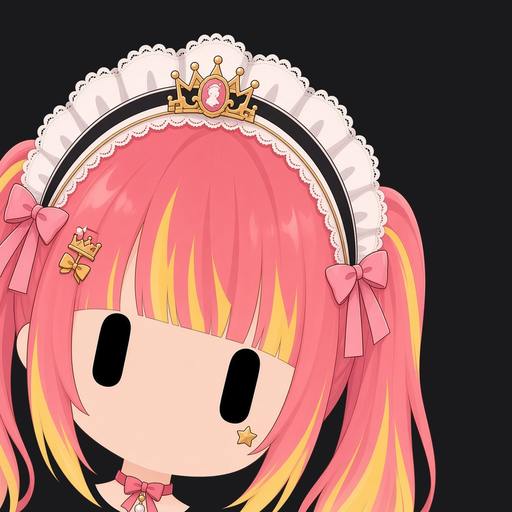
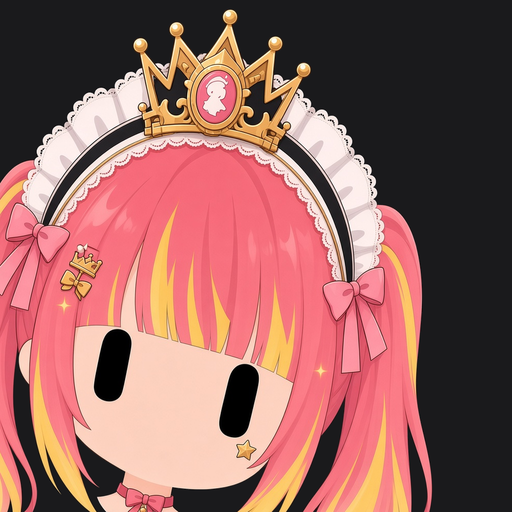
v18: big integrated head-maid crown, varied cheek stickers, direct swap after owner approval

diff --git a/README.md b/README.md
@@ -1,10 +1,10 @@
 # Grok Bot 女仆头像 · 一键提示词
 
-一套给 Grok Bot 用的女仆头像提示词：全员同一张脸、同一个构图，头发和头饰各不一样；发色亮/正常/深混着来；**深色头饰绝不糊进 `#1A1A1C`**；每个 bot **≥2 个跟职责相关的主题配饰**（发卡 + 脸颊贴纸/可爱创可贴）；主 bot 小咪 = 女仆长 + 小皇冠。把提示词整份丢给你的 Bot，它会先出总览，再问你要不要一键换上。
+一套给 Grok Bot 用的女仆头像提示词：全员同一张脸、同一个构图，头发和头饰各不一样；发色亮/正常/深混着来；**深色头饰绝不糊进 `#1A1A1C`**；每个 bot **≥2 个跟职责相关的主题配饰**（发卡 + **多样可爱脸颊贴纸**；创可贴极少，整套最多约 1～2 个）；主 bot 小咪 = 女仆长 + **醒目大金皇冠**（长在蕾丝发箍上，可很大）。把提示词整份丢给你的 Bot，它会先出总览，再问你要不要一键换上。
 
 ## 效果预览
 
-24 张同模 showcase（v17：主题配饰 ≥2 + 深色头饰对比锁；6×4）：
+24 张同模 showcase（v18：主题配饰 ≥2 + 多样脸颊贴纸 + 深色头饰对比锁；6×4）：
 
 ![6x4 showcase](samples/sheet-6x4.png)
 
@@ -26,21 +26,23 @@
 
 ## 效果约定
 
-- **同一个模子**：脸型、眼睛位置、歪头角度、裁切一致；只换头发、头饰、徽章、发卡、贴纸、choker。
+- **同一个模子**：脸型、眼睛位置、歪头角度、裁切一致；只换头发、头饰、徽章、发卡、**多样脸颊贴纸**、choker。
 - **构图**：大特写锚在左下，露一小截脖子 + choker，不露肩膀和胸口；背景 `#1A1A1C`。
 - **发色**：更大胆，约 ⅓ 深宝石发 + 亮挑染，少浅色；亮 / 正常 / 深混搭（深档用宝石底+亮挑染）；保留挑染 / 分色 / 内层染 / 发尾渐变；**不要黑发，也不要水洗浅色**。
 - **头饰**：必须是女仆蕾丝/荷叶/缎带 katyusha；**黑白为主**但剪影、材质、滚边、徽章外形要互异（禁止全员同一顶白蕾丝）。
-- **深色头饰对比锁（v17）**：黑/炭灰头饰在 `#1A1A1C` 上必须可读——亮滚边（象牙/奶油/银/金/高饱和色 ≥2px）/ 换浅主色（奶油/米/浅灰/酒红）/ 外白内黑荷叶边，三选一；禁止哑光纯黑无边。
-- **主题配饰（v17）**：出图前先读该 bot 上下文；每人至少 **发卡 + 脸颊贴纸或可爱创可贴** 两件主题相关配饰；可选颈链吊坠。贴纸/创可贴保持可爱审美，硬工作图标不直接贴脸。
-- **女仆长**：主 bot 小咪头饰更华丽并戴**小皇冠**；分身（小咪2/3/4…）不要皇冠。
+- **深色头饰对比锁（v18）**：黑/炭灰头饰在 `#1A1A1C` 上必须可读——亮滚边（象牙/奶油/银/金/高饱和色 ≥2px）/ 换浅主色（奶油/米/浅灰/酒红）/ 外白内黑荷叶边，三选一；禁止哑光纯黑无边。
+- **主题配饰（v18）**：出图前先读该 bot 上下文；每人至少 **发卡 + 脸颊贴纸** 两件主题相关配饰；可选颈链吊坠。**默认多样可爱贴纸**（星/心/月牙/闪光/小花/泪滴/迷你蝴蝶结等，全套互不雷同）；**创可贴极少**（整套最多约 1～2 个 bot），禁止人人创可贴。硬工作图标不直接贴脸。
+- **女仆长**：主 bot 小咪头饰更华丽并戴**醒目大金皇冠**（长在蕾丝荷叶发箍上，可很大很明显）；分身（小咪2/3/4…）不要皇冠。
 - **气质**：二次元 / 轻亚比 / 一点点小偶像，女仆框架不丢。
 
-## 完整提示词（v17）
+## 完整提示词（v18）
 
 <details>
-<summary>点击展开：一键提示词 v17（复制这里或 PROMPT.md）</summary>
+<summary>点击展开：一键提示词 v18（复制这里或 PROMPT.md）</summary>
 
-# Grok Bot 女仆头像 · 一键提示词（v17）
+
+
+# Grok Bot 女仆头像 · 一键提示词（v18）
 
 > **给你用的：**整份复制 → 发给你的 Grok Bot。  
 > **给 Bot 用的：**先看「做成什么样」，再严格按流程；出图时把 **§3 英文**整段交给画图模型。
@@ -55,23 +57,23 @@
 2. **发色大胆有层次** — 至少约 ⅓ 深宝石发（酒红/深青/海军蓝/梅紫/墨绿）配亮挑染；少用浅色粉彩；人人有挑染、双色或渐变；没有黑发、没有水洗浅粉。  
 3. **头饰一眼能分清** — 仍是女仆头饰，但以黑白为主，花样、材质、风格各不相同（不是复制同一顶白蕾丝）。  
 4. **深色头饰绝不糊进背景** — 黑/炭灰头饰在 `#1A1A1C` 上必须能看清轮廓（亮滚边 / 换浅主色 / 外层白荷叶边三选一）；缩略图也能看出头饰剪影。  
-5. **配饰跟职能挂钩（v17 硬规则）** — 每个 bot **至少 2 个主题配饰**（发卡 + 脸颊贴纸/创可贴 为底线；颈链吊坠可再加），必须读过该 bot 的职责/上下文后再设计；贴纸仍是可爱审美物，可含可爱创可贴/脸颊印记，但不是冷冰冰的工作图标。  
-6. **主 bot 女仆长可辨** — 主 bot「小咪」= 女仆长：头饰更华丽 + **小皇冠**；分身（小咪2/3/4…）**不要皇冠**。  
-7. **先给总览，再问要不要换** — 没问就换 = 做错了。
+5. **配饰跟职能挂钩（v18 硬规则）** — 每个 bot **至少 2 个主题配饰**（发卡 + 脸颊贴纸 为底线；颈链吊坠可再加），必须读过该 bot 的职责/上下文后再设计；脸颊以**多样可爱贴纸**为主（星/心/月牙/闪光/小花/泪滴/迷你蝴蝶结等互不雷同），**创可贴极少**（整套最多约 1～2 个 bot）；不是冷冰冰的工作图标。  
+6. **主 bot 女仆长可辨** — 主 bot「小咪」= 女仆长：头饰更华丽 + **醒目皇冠**（长在蕾丝上，可很大很明显）；分身（小咪2/3/4…）**不要皇冠**。  
+7. **先给总览，再换** — 第一次出整套先给主人看；主人说过「直接换、不用再问」后，以后出图就直接通知各 bot 换上，不再让每个 bot 单独弹确认。
 
 做不到以上任一条：重做，不要凑合交付。
 
 ---
 
-## 速记（v17 全部规则）
+## 速记（v18 全部规则）
 
 1. 出图前先读该 bot 的上下文。  
-2. 每人 ≥2 个主题配饰（发卡 + 脸颊贴纸/可爱创可贴，可加颈链吊坠）。  
+2. 每人 ≥2 个主题配饰（发卡 + 多样脸颊贴纸，可加颈链吊坠）；创可贴整套最多约 1～2 个，禁止人人创可贴。  
 3. 发色更大胆：一套里 ≥⅓ 深宝石发 + 亮挑染；少浅色。  
 4. 保留挑染 / 双色 / 渐变。  
 5. 头饰可加时尚元素，但必须一眼是女仆头饰。  
-6. v16 深色头饰对比锁照旧。  
-7. 主 bot 小咪 = 女仆长 + 小皇冠；皇冠必须**长在女仆蕾丝发箍上**（蕾丝荷叶底座 + 缎带系带 + 女仆徽章），不能是单独一顶皇冠；分身不戴皇冠。  
+6. v18 深色头饰对比锁照旧。  
+7. 主 bot 小咪 = 女仆长 + 皇冠；皇冠必须**长在女仆蕾丝发箍上**（蕾丝荷叶底座 + 缎带系带 + 女仆徽章），不能是单独一顶皇冠；皇冠可以**很大很醒目**（缩略图也能认），分身不戴皇冠。  
 8. 偶尔动漫联动彩蛋（约 1/6～1/8，不画 logo/不抄脸）。
 
 ---
@@ -102,7 +104,7 @@
 | 项 | 要求 |
 |---|---|
 | 画布 | 先画 1024×1024，交付再缩 512×512 |
-| 可变 | 头发、头饰、徽章、发卡、贴纸/创可贴、颈链、小妆点 |
+| 可变 | 头发、头饰、徽章、发卡、脸颊贴纸（创可贴极少）、颈链、小妆点 |
 | 不可变 | 脸型、脸大小、角度、眼睛位置和大小、裁切、脖子长短 |
 | 眼睛（1024 图） | 两眼中心大约 `(351, 736)`，眼高大约 `148`（约画面高度的 **14%**），误差 ±3% |
 | 头+头饰 | 约占画面高度 **45%～55%**；不许拍得更近 |
@@ -123,21 +125,21 @@ Square 1:1 avatar. Flat 2D anime chibi icon, mouthless round face, two plain sol
 
 FRAMING LOCK (match master exactly): same pose, same face size, same eye position, same camera distance. Eye height ≈14% of canvas. Head + maid headpiece ≈45–55% of canvas height — DO NOT zoom closer. Entire headpiece inside frame with ≥20px empty margin above it. Attach BOTH the master image AND one known-good sibling from this set as references. If framing drifts, regenerate; do not crop tighter.
 
-CONTEXT ACCESSORIES (v17, mandatory ≥2 themed pieces): Before drawing, the designer already read this bot's role. Include AT LEAST: (1) bangs clip shaped like [job-themed cute prop], AND (2) ONE cheek mark — either a tiny aesthetic sticker [star/heart/sparkle/flower/crescent/teardrop/tiny bow] OR a cute themed bandaid/cheek plaster in soft pastel with a tiny motif matching the job. Optional 3rd: choker charm matching the same theme. Stickers/bandaids stay cute and aesthetic — NEVER cold UI icons (no handshake, gear-only, checkmark-only, pokeball-as-job-badge on the face). Emblem on headpiece may be a stylized cute symbol of the job.
+CONTEXT ACCESSORIES (v18, mandatory ≥2 themed pieces): Before drawing, the designer already read this bot's role. Include AT LEAST: (1) bangs clip shaped like [job-themed cute prop], AND (2) ONE cheek mark — DEFAULT a tiny playful aesthetic sticker [star/heart/sparkle/flower/crescent/teardrop/tiny bow], VARIED across the set so bots do not share the same cheek mark. Cute themed bandaid/cheek plaster is RARE — at most ~1–2 bots in the whole set; NEVER give most bots bandaids. Optional 3rd: choker charm matching the same theme. Stickers stay cute and aesthetic — NEVER cold UI icons (no handshake, gear-only, checkmark-only, pokeball-as-job-badge on the face). Emblem on headpiece may be a stylized cute symbol of the job.
 
-Appearance: [concrete hairstyle + one asymmetry]. [BRIGHT or MID or DEEP — use DEEP for ≥1/3 of the set] BOLD high-contrast dopamine candy hair in 60/30/10 colors [name three colors] — rich chromatic candy, NEVER pastel/washed pink, NEVER black/charcoal base (if DEEP: dark jewel base + bright streak or tip). Dye: [chunky streak / vertical split / underdye / tip ombre / different-color twin tails]. UNIQUE maid headpiece (must still read as maid lace/ruffle/ribbon band; mostly black/white; NOT a clone of other bots; may add ONE or TWO fashion touches — ribbon tie, metallic chain trim, pearl/rhinestone accents, patent vinyl band, gingham/plaid trim, layered tulle, asymmetric bow, mini charms — but NO hats, full crowns, helmets, horns, big headphones): [silhouette], [material], [fashion touch], [main color + REQUIRED contrast treatment if dark — see HEADPIECE CONTRAST LOCK], center gold-trimmed emblem shaped like [unique cute job symbol]. Bangs clip: [job-themed cute prop]. ONE cheek mark only: [aesthetic sticker OR cute themed bandaid]. Choker: [unique, optionally with themed charm]. Soft hair sparkle. Do NOT copy any clip, sticker, or checkmark from the master.
+Appearance: [concrete hairstyle + one asymmetry]. [BRIGHT or MID or DEEP — use DEEP for ≥1/3 of the set] BOLD high-contrast dopamine candy hair in 60/30/10 colors [name three colors] — rich chromatic candy, NEVER pastel/washed pink, NEVER black/charcoal base (if DEEP: dark jewel base + bright streak or tip). Dye: [chunky streak / vertical split / underdye / tip ombre / different-color twin tails]. UNIQUE maid headpiece (must still read as maid lace/ruffle/ribbon band; mostly black/white; NOT a clone of other bots; may add ONE or TWO fashion touches — ribbon tie, metallic chain trim, pearl/rhinestone accents, patent vinyl band, gingham/plaid trim, layered tulle, asymmetric bow, mini charms — but NO hats, full crowns, helmets, horns, big headphones): [silhouette], [material], [fashion touch], [main color + REQUIRED contrast treatment if dark — see HEADPIECE CONTRAST LOCK], center gold-trimmed emblem shaped like [unique cute job symbol]. Bangs clip: [job-themed cute prop]. ONE cheek mark only: [varied playful sticker — star/heart/sparkle/flower/crescent/teardrop/mini bow; bandaid RARE, ≤1–2 bots in whole set]. Choker: [unique, optionally with themed charm]. Soft hair sparkle. Do NOT copy any clip, sticker, or checkmark from the master.
 
 HEADPIECE CONTRAST LOCK (non-negotiable on #1A1A1C): Dark / black / charcoal / near-black headpieces MUST stay readable at thumbnail size. For ANY dark headpiece pick ONE: (a) bright edge piping ≥2px visual — ivory, cream, silver, gold, or hot color along the ENTIRE outer silhouette; OR (b) swap the main body to cream / ivory / soft grey / wine with contrast lace; OR (c) white/cream outer frill wrapping a dark inner band. NEVER pure matte black lace with no rim. Far-thumbnail must show the headpiece silhouette clearly against #1A1A1C.
 
 ANIME CAMEO (optional, ~1 in 6–8 bots only): light nod to a popular anime IP via hair color scheme, one signature clip, or headpiece motif; keep the same mold, maid headpiece, mouthless capsule eyes; NO logos, NO text, NO copying the character's face.
 
-HEAD-MAID RULE: Only the main bot 小咪 may wear a delicate mini gold crown, and it must be BUILT ONTO / RISING FROM a lace-ruffle maid katyusha (lace frill base, ribbon ties, maid emblem) — never a standalone crown or tiara. Sister bots / 分身 (小咪2/3/4…) must NOT have a crown/tiara/crownette.
+HEAD-MAID RULE: Only the main bot 小咪 may wear a gold crown on the maid headpiece, and it must be BUILT ONTO / RISING FROM a lace-ruffle maid katyusha (lace frill base, ribbon ties, maid emblem) — never a standalone crown or tiara. The crown may be LARGE and DOMINANT (clearly readable at thumbnail) as long as it stays integrated on the lace katyusha with ≥20px top margin. Sister bots / 分身 (小咪2/3/4…) must NOT have a crown/tiara/crownette.
 ```
 
 **合格 Appearance 示例 A（财务 · 主题配饰 ≥2）：**
 
 ```
-Appearance: soft low side braid with blunt bangs, one longer left strand. MID dopamine candy hair 60/30/10 mint pearl / cream / soft gold — tip ombre. UNIQUE maid headpiece: rounded cream layered lace, thick lace material, ivory with thin gold piping, center gold-trimmed emblem shaped like a tiny coin pouch. Bangs clip: tiny abacus bead charm. ONE cheek mark only: cute mint bandaid with a tiny gold coin doodle. Choker: thin pearl strand with a small gold coin charm. Soft hair sparkle. Do NOT copy any clip, sticker, or checkmark from the master.
+Appearance: soft low side braid with blunt bangs, one longer left strand. MID dopamine candy hair 60/30/10 mint pearl / cream / soft gold — tip ombre. UNIQUE maid headpiece: rounded cream layered lace, thick lace material, ivory with thin gold piping, center gold-trimmed emblem shaped like a tiny coin pouch. Bangs clip: tiny abacus bead charm. ONE cheek mark only: tiny gold coin-heart sticker. Choker: thin pearl strand with a small gold coin charm. Soft hair sparkle. Do NOT copy any clip, sticker, or checkmark from the master.
 ```
 
 **合格 Appearance 示例 B（深色头饰 · 游戏开发 · 主题配饰 ≥2）：**
@@ -149,12 +151,12 @@ Appearance: messy short bob with soft bangs, one longer right strand. DEEP dopam
 **合格 Appearance 示例 C（主 bot 小咪 · 女仆长 + 小皇冠）：**
 
 ```
-Appearance: soft bob with blunt bangs and tiny cat-ear tufts, one longer left strand. BRIGHT dopamine candy hair 60/30/10 bubblegum hot pink / lemon gold / soft coral — chunky lemon underdye. UNIQUE HEAD-MAID maid headpiece: wide multi-layered Victorian lace with gold-trim ribbon bows, ivory outer frills wrapping rose-pink inner band PLUS thin gold piping ≥2px, with a delicate small mini gold crown (3 tiny arches) sitting on the lace — senior look, NOT a clone of ordinary maids. Center gold-trimmed emblem shaped like a cat-paw with tiny crown. Bangs clip: tiny gold crown charm. ONE cheek mark only: tiny gold star. Choker: double pearl strand with hanging gold crown charm. Soft hair sparkle. Do NOT copy checkmark/ballot from master.
+Appearance: soft bob with blunt bangs and tiny cat-ear tufts, one longer left strand. BRIGHT dopamine candy hair 60/30/10 bubblegum hot pink / lemon gold / soft coral — chunky lemon underdye. UNIQUE HEAD-MAID maid headpiece: wide multi-layered Victorian lace with gold-trim ribbon bows, ivory outer frills wrapping rose-pink inner band PLUS thin gold piping ≥2px, with a LARGE dominant ornate gold crown (multi-point, clearly readable at thumbnail, several times larger than a tiny mini-crown) sitting on / rising from the lace — senior look, NOT a clone of ordinary maids; still integrated, never standalone. Center gold-trimmed emblem shaped like a cat-paw with tiny crown. Bangs clip: tiny gold crown charm. ONE cheek mark only: tiny gold star. Choker: double pearl strand with hanging gold crown charm. Soft hair sparkle. Do NOT copy checkmark/ballot from master.
 ```
 
 ---
 
-## 4. 发色：更大胆、更多深色（v17）
+## 4. 发色：更大胆、更多深色（v18）
 
 **一套里至少约 ⅓ 用「深」档**（深宝石底 + 亮挑染/亮发尾），整体少用浅色、粉彩。挑染、双色、渐变是重点，每号必须有一种。
 
@@ -172,10 +174,10 @@ Appearance: soft bob with blunt bangs and tiny cat-ear tufts, one longer left st
 
 ## 5. 头饰：黑白为主，必须能分清 + 深色可读
 
-- 必须是女仆头饰（蕾丝、荷叶边、缎带发箍那种），不要改成普通发箍、帽子；**只有主 bot 小咪可加小皇冠**。  
+- 必须是女仆头饰（蕾丝、荷叶边、缎带发箍那种），不要改成普通发箍、帽子；**只有主 bot 小咪可加皇冠（长在蕾丝上，可以很大）**。  
 - 禁止全员同一顶白蕾丝、同一个圆形金徽章。  
-- **可以加时尚元素（v17）**：缎带领结式系法、金属链条滚边、珍珠/水钻点缀、漆皮/亮面发带、格纹/格子边、多层薄纱、不对称蝴蝶结、迷你挂件。但底座必须一眼是女仆蕾丝/荷叶边发箍。  
-- **不要离谱**：不要帽子、大皇冠（只有小咪可在蕾丝上加小皇冠）、头盔、犄角、大耳机。  
+- **可以加时尚元素（v18）**：缎带领结式系法、金属链条滚边、珍珠/水钻点缀、漆皮/亮面发带、格纹/格子边、多层薄纱、不对称蝴蝶结、迷你挂件。但底座必须一眼是女仆蕾丝/荷叶边发箍。  
+- **不要离谱**：不要帽子、独立大皇冠（只有小咪可在蕾丝上加一体式醒目皇冠）、头盔、犄角、大耳机。  
 - 每个号至少在两项上明显不同：外形花样、颜色（白/米/黑/黑白拼/深灰，可加彩色滚边）、材质、风格、正中徽章形状。  
 - **深色 / 黑色 / 炭灰头饰硬规则（不可妥协）：**在 `#1A1A1C` 背景上必须可读。任选其一——  
   1. **亮滚边**：整圈外轮廓象牙/奶油/银/金/高饱和色描边，视觉宽度 ≥2px；或  
@@ -183,11 +185,11 @@ Appearance: soft bob with blunt bangs and tiny cat-ear tufts, one longer left st
   3. **外白内黑**：白色/奶油色外层荷叶边包住深色内带。  
   **禁止**纯哑光黑蕾丝、无任何滚边/外白边。远看缩略图必须能看出头饰剪影。  
 - 缩成很小也能看出来「不是同一顶」。  
-- 谁是哪个职能：靠 **头饰徽章 + 主题发卡 + 脸颊贴纸/创可贴**（以及可选颈链吊坠）。
+- 谁是哪个职能：靠 **头饰徽章 + 主题发卡 + 多样脸颊贴纸**（以及可选颈链吊坠；创可贴极少）。
 
 ---
 
-## 6. 主题配饰（v17 · 先读上下文）
+## 6. 主题配饰（v18 · 先读上下文）
 
 **出图前必须：**读该 bot 的名字、简介、职责、近期上下文，再设计配饰。不要凭空套万能爱心。
 
@@ -196,16 +198,17 @@ Appearance: soft bob with blunt bangs and tiny cat-ear tufts, one longer left st
 | 位 | 要求 | 例子 |
 |---|---|---|
 | 刘海发卡（必有） | 可爱小道具，能联想到工作 | 财务=算盘珠；文案=小羽毛笔；搬运=迷你纸箱；魔兽=小盾牌；巡检=小手电筒；验收=小勾选糖；美术=小调色盘；游戏=像素心卡带；Codex/日报=小卷轴 |
-| 脸颊标记（必有其一） | **审美贴纸** 或 **可爱创可贴/脸颊印** | 星星/爱心/月牙/泪滴/小花/迷你蝴蝶结；或淡粉/薄荷创可贴上画迷你主题涂鸦（小币、小星、小爪） |
+| 脸颊标记（必有） | **默认多样可爱贴纸**；创可贴极少 | 星/心/闪光/小花/月牙/泪滴/迷你蝴蝶结等，全套互不雷同；**创可贴整套最多约 1～2 个 bot**，禁止人人创可贴 |
 | 颈链吊坠（可选第 3） | 与同一主题呼应 | 金币、羽毛、纸箱、游戏手柄、小皇冠（仅女仆长） |
 
 规则：
 
-- 脸颊最多 1 个标记；只贴一边。  
-- 贴纸/创可贴必须可爱、二次元；**不要**把握手、齿轮、对勾、精灵球等硬图标直接贴脸上（职能符号放在徽章/发卡上，或以「糖化」可爱版出现）。  
+- 脸颊最多 1 个标记；只贴一边；全套贴纸形状/颜色尽量互不重复。  
+- **默认贴纸、少用创可贴**：用户讨厌人人创可贴；创可贴仅偶尔掉落（整套 ≤1～2）。  
+- 贴纸必须可爱、二次元；**不要**把握手、齿轮、对勾、精灵球等硬图标直接贴脸上（职能符号放在徽章/发卡上，或以「糖化」可爱版出现）。  
 - 发型外形各不相同；容易顶到上边的用低马尾或侧马尾；不要高马尾顶出画面；少用又高又大的呆毛。  
 - 追求：缩略图能认出谁是谁；颜色 60/30/10；金色小点缀；全身只做一处明显不对称。  
-- **主 bot 小咪 = 女仆长**：头饰更华丽 + 小皇冠；发卡/吊坠/脸颊可走皇冠/猫爪主题。  
+- **主 bot 小咪 = 女仆长**：头饰更华丽 + 醒目大皇冠（长在蕾丝上）；发卡/吊坠/脸颊可走皇冠/猫爪主题。  
 - **分身（小咪2/3/4…）**：**禁止皇冠**；用各自不同的发色/头饰/主题小配饰区分。
 
 ---
@@ -222,7 +225,7 @@ Appearance: soft bob with blunt bangs and tiny cat-ear tufts, one longer left st
 
 | 角色 | 头饰 | 皇冠 | 备注 |
 |---|---|---|---|
-| 小咪（主 bot） | 更华丽的多层蕾丝/金边维多利亚 | **要** 精致小金皇冠 | 颈链可更正式（珍珠+皇冠吊坠） |
+| 小咪（主 bot） | 更华丽的多层蕾丝/金边维多利亚 | **要** 醒目大金皇冠（长在蕾丝上，可很大） | 颈链可更正式（珍珠+皇冠吊坠） |
 | 小咪2 / 3 / 4… | 普通女仆头饰，互不雷同 | **不要** | 仍要 ≥2 主题配饰；可走「分身姐妹」各自小主题 |
 
 ---
@@ -234,7 +237,7 @@ Appearance: soft bob with blunt bangs and tiny cat-ear tufts, one longer left st
 | # | 助手名 | 档位 | 发型 | 染法 | 三色 | 头饰（外形/材质/色/对比） | 徽章 | 主题发卡 | 脸颊标记 | 颈链 |
 |---|---|---|---|---|---|---|---|---|---|---|
 | 01 | （例）投票 | 正常 | 齐刘海长直 | 发尾渐变 | 热珊瑚/奶油/柠檬金 | 宽层叠白蕾丝/厚蕾丝/米白描金 | 选票糖 | 小选票夹 | 金泪滴贴 | 金边白蕾丝+金环 |
-| 02 | （例）财务 | 正常 | 侧辫软刘海 | 发尾 | 薄荷珍珠/奶油/金 | 圆层奶油蕾丝/厚蕾丝/描金 | 小钱袋 | 算盘珠 | 薄荷创可贴+小币 | 珍珠+金币 |
+| 02 | （例）财务 | 正常 | 侧辫软刘海 | 发尾 | 薄荷珍珠/奶油/金 | 圆层奶油蕾丝/厚蕾丝/描金 | 小钱袋 | 算盘珠 | 金币爱心贴 | 珍珠+金币 |
 | 03 | （例）小咪女仆长 | 亮 | 猫耳软bob | 内层染 | 泡泡糖粉/柠檬金/珊瑚 | 多层维多利亚+玫瑰粉内带+金滚边+**小皇冠** | 猫爪+冠 | 小金冠吊 | 金星贴 | 双排珍珠+冠坠 |
 | 04 | … | … | … | … | … | … | … | … | … | … |
 
@@ -250,9 +253,10 @@ Appearance: soft bob with blunt bangs and tiny cat-ear tufts, one longer left st
 | 头饰长一个样 | 分配表重写外形/材质/色；缩略图复查 |
 | 头发太浅或发黑糊进背景 | 换档位用词；深档加亮挑染 |
 | **深色头饰糊进 #1A1A1C** | 加亮滚边 / 换浅主色 / 外白荷叶边；禁止哑光纯黑无边 |
-| **主题配饰不足 2 件** | 补发卡 + 脸颊贴纸/创可贴；必要时加颈链吊坠 |
+| **主题配饰不足 2 件** | 补发卡 + 多样脸颊贴纸；必要时加颈链吊坠；创可贴勿滥用 |
+| **人人创可贴 / 脸颊雷同** | 改成星/心/月牙/闪光/小花/泪滴/迷你蝴蝶结等互不重复；创可贴整套 ≤1～2 |
 | 配饰和职责无关 | 重读 bot 上下文，换主题道具 |
-| 脸上出现生硬工作图标 | 改成可爱贴纸或创可贴涂鸦；硬符号只留徽章/发卡的糖化版 |
+| 脸上出现生硬工作图标 | 改成多样可爱贴纸；硬符号只留徽章/发卡的糖化版；创可贴极少 |
 | 分身戴了皇冠 / 女仆长看不出 | 分身去冠；小咪加强小皇冠与华贵头饰 |
 | 母版的对勾跑到别的号 | 英文写清不要抄母版配件 |
 | 总览眼睛不齐、头大小不一 | 不准交付 |
@@ -262,20 +266,20 @@ Appearance: soft bob with blunt bangs and tiny cat-ear tufts, one longer left st
 ## 10. 分享时请保留
 
 - 只需分享本文件（或本仓库）。  
-- **不要删：**同一模子、双参考、缩放上限、背景色、禁黑发与水洗浅色、头饰要能分清、**深色头饰对比锁**、**先读上下文再设计 ≥2 主题配饰**、可爱贴纸/创可贴、女仆长小皇冠规则、先展示再问是否更换。
+- **不要删：**同一模子、双参考、缩放上限、背景色、禁黑发与水洗浅色、头饰要能分清、**深色头饰对比锁**、**先读上下文再设计 ≥2 主题配饰**、**多样脸颊贴纸（创可贴极少）**、女仆长醒目皇冠规则、首次先展示总览（主人授权后可直接换）。
 
 ---
 
-*v17 · 发色更大胆（≥⅓ 深宝石+亮挑染）；在 v16 深色头饰对比锁与验收标准上：恢复并强调审美脸贴；允许可爱创可贴/脸颊印；硬性要求每个 bot ≥2 个与职责相关的主题配饰；出图前必须先读该 bot 上下文；明确主 bot 小咪=女仆长+小皇冠，分身无冠。*
-
+*v18 · 首次先总览，主人授权后直接换不再逐个确认； 发色更大胆（≥⅓ 深宝石+亮挑染）；多样脸颊贴纸为主、创可贴整套最多约 1～2；硬性 ≥2 主题配饰；出图前读上下文；主 bot 小咪=女仆长+醒目蕾丝一体皇冠（可很大），分身无冠。*
 
 </details>
 
 
 ## 版本
 
-- **v16** — 深色头饰对比硬锁；showcase 重画过暗槽位（s04/s05/s08/s11/s15/s22）。
-- v15 — 验收标准前置、英文分锁构图/写外观、合格 Appearance 示例、中文口语化。
+- **v18** — 发色更大胆（≥⅓ 深宝石+亮挑染）；**多样脸颊贴纸为主、创可贴整套最多约 1～2**；硬性 ≥2 主题配饰；出图前读上下文；主 bot 小咪=女仆长+醒目蕾丝一体皇冠（可很大），分身无冠；偶尔动漫彩蛋。
+- **v18** — 深色头饰对比硬锁；showcase 重画过暗槽位（s04/s05/s08/s11/s15/s22）。
+- v18 — 验收标准前置、英文分锁构图/写外观、合格 Appearance 示例、中文口语化。
 - 更早版本见 git 历史。
 
 ## License

diff --git a/PROMPT.md b/PROMPT.md
@@ -1,4 +1,4 @@
-# Grok Bot 女仆头像 · 一键提示词（v17）
+# Grok Bot 女仆头像 · 一键提示词（v18）
 
 > **给你用的：**整份复制 → 发给你的 Grok Bot。  
 > **给 Bot 用的：**先看「做成什么样」，再严格按流程；出图时把 **§3 英文**整段交给画图模型。
@@ -13,9 +13,9 @@
 2. **发色大胆有层次** — 至少约 ⅓ 深宝石发（酒红/深青/海军蓝/梅紫/墨绿）配亮挑染；少用浅色粉彩；人人有挑染、双色或渐变；没有黑发、没有水洗浅粉。  
 3. **头饰一眼能分清** — 仍是女仆头饰，但以黑白为主，花样、材质、风格各不相同（不是复制同一顶白蕾丝）。  
 4. **深色头饰绝不糊进背景** — 黑/炭灰头饰在 `#1A1A1C` 上必须能看清轮廓（亮滚边 / 换浅主色 / 外层白荷叶边三选一）；缩略图也能看出头饰剪影。  
-5. **配饰跟职能挂钩（v17 硬规则）** — 每个 bot **至少 2 个主题配饰**（发卡 + 脸颊贴纸/创可贴 为底线；颈链吊坠可再加），必须读过该 bot 的职责/上下文后再设计；贴纸仍是可爱审美物，可含可爱创可贴/脸颊印记，但不是冷冰冰的工作图标。  
-6. **主 bot 女仆长可辨** — 主 bot「小咪」= 女仆长：头饰更华丽 + **小皇冠**；分身（小咪2/3/4…）**不要皇冠**。  
-7. **先给总览，再问要不要换** — 没问就换 = 做错了。
+5. **配饰跟职能挂钩（v17 硬规则）** — 每个 bot **至少 2 个主题配饰**（发卡 + 脸颊贴纸 为底线；颈链吊坠可再加），必须读过该 bot 的职责/上下文后再设计；脸颊以**多样可爱贴纸**为主（星/心/月牙/闪光/小花/泪滴/迷你蝴蝶结等互不雷同），**创可贴极少**（整套最多约 1～2 个 bot）；不是冷冰冰的工作图标。  
+6. **主 bot 女仆长可辨** — 主 bot「小咪」= 女仆长：头饰更华丽 + **醒目皇冠**（长在蕾丝上，可很大很明显）；分身（小咪2/3/4…）**不要皇冠**。  
+7. **先给总览，再换** — 第一次出整套先给主人看；主人说过「直接换、不用再问」后，以后出图就直接通知各 bot 换上，不再让每个 bot 单独弹确认。
 
 做不到以上任一条：重做，不要凑合交付。
 
@@ -24,12 +24,12 @@
 ## 速记（v17 全部规则）
 
 1. 出图前先读该 bot 的上下文。  
-2. 每人 ≥2 个主题配饰（发卡 + 脸颊贴纸/可爱创可贴，可加颈链吊坠）。  
+2. 每人 ≥2 个主题配饰（发卡 + 多样脸颊贴纸，可加颈链吊坠）；创可贴整套最多约 1～2 个，禁止人人创可贴。  
 3. 发色更大胆：一套里 ≥⅓ 深宝石发 + 亮挑染；少浅色。  
 4. 保留挑染 / 双色 / 渐变。  
 5. 头饰可加时尚元素，但必须一眼是女仆头饰。  
 6. v16 深色头饰对比锁照旧。  
-7. 主 bot 小咪 = 女仆长 + 小皇冠；皇冠必须**长在女仆蕾丝发箍上**（蕾丝荷叶底座 + 缎带系带 + 女仆徽章），不能是单独一顶皇冠；分身不戴皇冠。  
+7. 主 bot 小咪 = 女仆长 + 皇冠；皇冠必须**长在女仆蕾丝发箍上**（蕾丝荷叶底座 + 缎带系带 + 女仆徽章），不能是单独一顶皇冠；皇冠可以**很大很醒目**（缩略图也能认），分身不戴皇冠。  
 8. 偶尔动漫联动彩蛋（约 1/6～1/8，不画 logo/不抄脸）。
 
 ---
@@ -60,7 +60,7 @@
 | 项 | 要求 |
 |---|---|
 | 画布 | 先画 1024×1024，交付再缩 512×512 |
-| 可变 | 头发、头饰、徽章、发卡、贴纸/创可贴、颈链、小妆点 |
+| 可变 | 头发、头饰、徽章、发卡、脸颊贴纸（创可贴极少）、颈链、小妆点 |
 | 不可变 | 脸型、脸大小、角度、眼睛位置和大小、裁切、脖子长短 |
 | 眼睛（1024 图） | 两眼中心大约 `(351, 736)`，眼高大约 `148`（约画面高度的 **14%**），误差 ±3% |
 | 头+头饰 | 约占画面高度 **45%～55%**；不许拍得更近 |
@@ -81,21 +81,21 @@ Square 1:1 avatar. Flat 2D anime chibi icon, mouthless round face, two plain sol
 
 FRAMING LOCK (match master exactly): same pose, same face size, same eye position, same camera distance. Eye height ≈14% of canvas. Head + maid headpiece ≈45–55% of canvas height — DO NOT zoom closer. Entire headpiece inside frame with ≥20px empty margin above it. Attach BOTH the master image AND one known-good sibling from this set as references. If framing drifts, regenerate; do not crop tighter.
 
-CONTEXT ACCESSORIES (v17, mandatory ≥2 themed pieces): Before drawing, the designer already read this bot's role. Include AT LEAST: (1) bangs clip shaped like [job-themed cute prop], AND (2) ONE cheek mark — either a tiny aesthetic sticker [star/heart/sparkle/flower/crescent/teardrop/tiny bow] OR a cute themed bandaid/cheek plaster in soft pastel with a tiny motif matching the job. Optional 3rd: choker charm matching the same theme. Stickers/bandaids stay cute and aesthetic — NEVER cold UI icons (no handshake, gear-only, checkmark-only, pokeball-as-job-badge on the face). Emblem on headpiece may be a stylized cute symbol of the job.
+CONTEXT ACCESSORIES (v17, mandatory ≥2 themed pieces): Before drawing, the designer already read this bot's role. Include AT LEAST: (1) bangs clip shaped like [job-themed cute prop], AND (2) ONE cheek mark — DEFAULT a tiny playful aesthetic sticker [star/heart/sparkle/flower/crescent/teardrop/tiny bow], VARIED across the set so bots do not share the same cheek mark. Cute themed bandaid/cheek plaster is RARE — at most ~1–2 bots in the whole set; NEVER give most bots bandaids. Optional 3rd: choker charm matching the same theme. Stickers stay cute and aesthetic — NEVER cold UI icons (no handshake, gear-only, checkmark-only, pokeball-as-job-badge on the face). Emblem on headpiece may be a stylized cute symbol of the job.
 
-Appearance: [concrete hairstyle + one asymmetry]. [BRIGHT or MID or DEEP — use DEEP for ≥1/3 of the set] BOLD high-contrast dopamine candy hair in 60/30/10 colors [name three colors] — rich chromatic candy, NEVER pastel/washed pink, NEVER black/charcoal base (if DEEP: dark jewel base + bright streak or tip). Dye: [chunky streak / vertical split / underdye / tip ombre / different-color twin tails]. UNIQUE maid headpiece (must still read as maid lace/ruffle/ribbon band; mostly black/white; NOT a clone of other bots; may add ONE or TWO fashion touches — ribbon tie, metallic chain trim, pearl/rhinestone accents, patent vinyl band, gingham/plaid trim, layered tulle, asymmetric bow, mini charms — but NO hats, full crowns, helmets, horns, big headphones): [silhouette], [material], [fashion touch], [main color + REQUIRED contrast treatment if dark — see HEADPIECE CONTRAST LOCK], center gold-trimmed emblem shaped like [unique cute job symbol]. Bangs clip: [job-themed cute prop]. ONE cheek mark only: [aesthetic sticker OR cute themed bandaid]. Choker: [unique, optionally with themed charm]. Soft hair sparkle. Do NOT copy any clip, sticker, or checkmark from the master.
+Appearance: [concrete hairstyle + one asymmetry]. [BRIGHT or MID or DEEP — use DEEP for ≥1/3 of the set] BOLD high-contrast dopamine candy hair in 60/30/10 colors [name three colors] — rich chromatic candy, NEVER pastel/washed pink, NEVER black/charcoal base (if DEEP: dark jewel base + bright streak or tip). Dye: [chunky streak / vertical split / underdye / tip ombre / different-color twin tails]. UNIQUE maid headpiece (must still read as maid lace/ruffle/ribbon band; mostly black/white; NOT a clone of other bots; may add ONE or TWO fashion touches — ribbon tie, metallic chain trim, pearl/rhinestone accents, patent vinyl band, gingham/plaid trim, layered tulle, asymmetric bow, mini charms — but NO hats, full crowns, helmets, horns, big headphones): [silhouette], [material], [fashion touch], [main color + REQUIRED contrast treatment if dark — see HEADPIECE CONTRAST LOCK], center gold-trimmed emblem shaped like [unique cute job symbol]. Bangs clip: [job-themed cute prop]. ONE cheek mark only: [varied playful sticker — star/heart/sparkle/flower/crescent/teardrop/mini bow; bandaid RARE, ≤1–2 bots in whole set]. Choker: [unique, optionally with themed charm]. Soft hair sparkle. Do NOT copy any clip, sticker, or checkmark from the master.
 
 HEADPIECE CONTRAST LOCK (non-negotiable on #1A1A1C): Dark / black / charcoal / near-black headpieces MUST stay readable at thumbnail size. For ANY dark headpiece pick ONE: (a) bright edge piping ≥2px visual — ivory, cream, silver, gold, or hot color along the ENTIRE outer silhouette; OR (b) swap the main body to cream / ivory / soft grey / wine with contrast lace; OR (c) white/cream outer frill wrapping a dark inner band. NEVER pure matte black lace with no rim. Far-thumbnail must show the headpiece silhouette clearly against #1A1A1C.
 
 ANIME CAMEO (optional, ~1 in 6–8 bots only): light nod to a popular anime IP via hair color scheme, one signature clip, or headpiece motif; keep the same mold, maid headpiece, mouthless capsule eyes; NO logos, NO text, NO copying the character's face.
 
-HEAD-MAID RULE: Only the main bot 小咪 may wear a delicate mini gold crown, and it must be BUILT ONTO / RISING FROM a lace-ruffle maid katyusha (lace frill base, ribbon ties, maid emblem) — never a standalone crown or tiara. Sister bots / 分身 (小咪2/3/4…) must NOT have a crown/tiara/crownette.
+HEAD-MAID RULE: Only the main bot 小咪 may wear a gold crown on the maid headpiece, and it must be BUILT ONTO / RISING FROM a lace-ruffle maid katyusha (lace frill base, ribbon ties, maid emblem) — never a standalone crown or tiara. The crown may be LARGE and DOMINANT (clearly readable at thumbnail) as long as it stays integrated on the lace katyusha with ≥20px top margin. Sister bots / 分身 (小咪2/3/4…) must NOT have a crown/tiara/crownette.
 ```
 
 **合格 Appearance 示例 A（财务 · 主题配饰 ≥2）：**
 
 ```
-Appearance: soft low side braid with blunt bangs, one longer left strand. MID dopamine candy hair 60/30/10 mint pearl / cream / soft gold — tip ombre. UNIQUE maid headpiece: rounded cream layered lace, thick lace material, ivory with thin gold piping, center gold-trimmed emblem shaped like a tiny coin pouch. Bangs clip: tiny abacus bead charm. ONE cheek mark only: cute mint bandaid with a tiny gold coin doodle. Choker: thin pearl strand with a small gold coin charm. Soft hair sparkle. Do NOT copy any clip, sticker, or checkmark from the master.
+Appearance: soft low side braid with blunt bangs, one longer left strand. MID dopamine candy hair 60/30/10 mint pearl / cream / soft gold — tip ombre. UNIQUE maid headpiece: rounded cream layered lace, thick lace material, ivory with thin gold piping, center gold-trimmed emblem shaped like a tiny coin pouch. Bangs clip: tiny abacus bead charm. ONE cheek mark only: tiny gold coin-heart sticker. Choker: thin pearl strand with a small gold coin charm. Soft hair sparkle. Do NOT copy any clip, sticker, or checkmark from the master.
 ```
 
 **合格 Appearance 示例 B（深色头饰 · 游戏开发 · 主题配饰 ≥2）：**
@@ -107,7 +107,7 @@ Appearance: messy short bob with soft bangs, one longer right strand. DEEP dopam
 **合格 Appearance 示例 C（主 bot 小咪 · 女仆长 + 小皇冠）：**
 
 ```
-Appearance: soft bob with blunt bangs and tiny cat-ear tufts, one longer left strand. BRIGHT dopamine candy hair 60/30/10 bubblegum hot pink / lemon gold / soft coral — chunky lemon underdye. UNIQUE HEAD-MAID maid headpiece: wide multi-layered Victorian lace with gold-trim ribbon bows, ivory outer frills wrapping rose-pink inner band PLUS thin gold piping ≥2px, with a delicate small mini gold crown (3 tiny arches) sitting on the lace — senior look, NOT a clone of ordinary maids. Center gold-trimmed emblem shaped like a cat-paw with tiny crown. Bangs clip: tiny gold crown charm. ONE cheek mark only: tiny gold star. Choker: double pearl strand with hanging gold crown charm. Soft hair sparkle. Do NOT copy checkmark/ballot from master.
+Appearance: soft bob with blunt bangs and tiny cat-ear tufts, one longer left strand. BRIGHT dopamine candy hair 60/30/10 bubblegum hot pink / lemon gold / soft coral — chunky lemon underdye. UNIQUE HEAD-MAID maid headpiece: wide multi-layered Victorian lace with gold-trim ribbon bows, ivory outer frills wrapping rose-pink inner band PLUS thin gold piping ≥2px, with a LARGE dominant ornate gold crown (multi-point, clearly readable at thumbnail, several times larger than a tiny mini-crown) sitting on / rising from the lace — senior look, NOT a clone of ordinary maids; still integrated, never standalone. Center gold-trimmed emblem shaped like a cat-paw with tiny crown. Bangs clip: tiny gold crown charm. ONE cheek mark only: tiny gold star. Choker: double pearl strand with hanging gold crown charm. Soft hair sparkle. Do NOT copy checkmark/ballot from master.
 ```
 
 ---
@@ -130,10 +130,10 @@ Appearance: soft bob with blunt bangs and tiny cat-ear tufts, one longer left st
 
 ## 5. 头饰：黑白为主，必须能分清 + 深色可读
 
-- 必须是女仆头饰（蕾丝、荷叶边、缎带发箍那种），不要改成普通发箍、帽子；**只有主 bot 小咪可加小皇冠**。  
+- 必须是女仆头饰（蕾丝、荷叶边、缎带发箍那种），不要改成普通发箍、帽子；**只有主 bot 小咪可加皇冠（长在蕾丝上，可以很大）**。  
 - 禁止全员同一顶白蕾丝、同一个圆形金徽章。  
 - **可以加时尚元素（v17）**：缎带领结式系法、金属链条滚边、珍珠/水钻点缀、漆皮/亮面发带、格纹/格子边、多层薄纱、不对称蝴蝶结、迷你挂件。但底座必须一眼是女仆蕾丝/荷叶边发箍。  
-- **不要离谱**：不要帽子、大皇冠（只有小咪可在蕾丝上加小皇冠）、头盔、犄角、大耳机。  
+- **不要离谱**：不要帽子、独立大皇冠（只有小咪可在蕾丝上加一体式醒目皇冠）、头盔、犄角、大耳机。  
 - 每个号至少在两项上明显不同：外形花样、颜色（白/米/黑/黑白拼/深灰，可加彩色滚边）、材质、风格、正中徽章形状。  
 - **深色 / 黑色 / 炭灰头饰硬规则（不可妥协）：**在 `#1A1A1C` 背景上必须可读。任选其一——  
   1. **亮滚边**：整圈外轮廓象牙/奶油/银/金/高饱和色描边，视觉宽度 ≥2px；或  
@@ -141,7 +141,7 @@ Appearance: soft bob with blunt bangs and tiny cat-ear tufts, one longer left st
   3. **外白内黑**：白色/奶油色外层荷叶边包住深色内带。  
   **禁止**纯哑光黑蕾丝、无任何滚边/外白边。远看缩略图必须能看出头饰剪影。  
 - 缩成很小也能看出来「不是同一顶」。  
-- 谁是哪个职能：靠 **头饰徽章 + 主题发卡 + 脸颊贴纸/创可贴**（以及可选颈链吊坠）。
+- 谁是哪个职能：靠 **头饰徽章 + 主题发卡 + 多样脸颊贴纸**（以及可选颈链吊坠；创可贴极少）。
 
 ---
 
@@ -154,16 +154,17 @@ Appearance: soft bob with blunt bangs and tiny cat-ear tufts, one longer left st
 | 位 | 要求 | 例子 |
 |---|---|---|
 | 刘海发卡（必有） | 可爱小道具，能联想到工作 | 财务=算盘珠；文案=小羽毛笔；搬运=迷你纸箱；魔兽=小盾牌；巡检=小手电筒；验收=小勾选糖；美术=小调色盘；游戏=像素心卡带；Codex/日报=小卷轴 |
-| 脸颊标记（必有其一） | **审美贴纸** 或 **可爱创可贴/脸颊印** | 星星/爱心/月牙/泪滴/小花/迷你蝴蝶结；或淡粉/薄荷创可贴上画迷你主题涂鸦（小币、小星、小爪） |
+| 脸颊标记（必有） | **默认多样可爱贴纸**；创可贴极少 | 星/心/闪光/小花/月牙/泪滴/迷你蝴蝶结等，全套互不雷同；**创可贴整套最多约 1～2 个 bot**，禁止人人创可贴 |
 | 颈链吊坠（可选第 3） | 与同一主题呼应 | 金币、羽毛、纸箱、游戏手柄、小皇冠（仅女仆长） |
 
 规则：
 
-- 脸颊最多 1 个标记；只贴一边。  
-- 贴纸/创可贴必须可爱、二次元；**不要**把握手、齿轮、对勾、精灵球等硬图标直接贴脸上（职能符号放在徽章/发卡上，或以「糖化」可爱版出现）。  
+- 脸颊最多 1 个标记；只贴一边；全套贴纸形状/颜色尽量互不重复。  
+- **默认贴纸、少用创可贴**：用户讨厌人人创可贴；创可贴仅偶尔掉落（整套 ≤1～2）。  
+- 贴纸必须可爱、二次元；**不要**把握手、齿轮、对勾、精灵球等硬图标直接贴脸上（职能符号放在徽章/发卡上，或以「糖化」可爱版出现）。  
 - 发型外形各不相同；容易顶到上边的用低马尾或侧马尾；不要高马尾顶出画面；少用又高又大的呆毛。  
 - 追求：缩略图能认出谁是谁；颜色 60/30/10；金色小点缀；全身只做一处明显不对称。  
-- **主 bot 小咪 = 女仆长**：头饰更华丽 + 小皇冠；发卡/吊坠/脸颊可走皇冠/猫爪主题。  
+- **主 bot 小咪 = 女仆长**：头饰更华丽 + 醒目大皇冠（长在蕾丝上）；发卡/吊坠/脸颊可走皇冠/猫爪主题。  
 - **分身（小咪2/3/4…）**：**禁止皇冠**；用各自不同的发色/头饰/主题小配饰区分。
 
 ---
@@ -180,7 +181,7 @@ Appearance: soft bob with blunt bangs and tiny cat-ear tufts, one longer left st
 
 | 角色 | 头饰 | 皇冠 | 备注 |
 |---|---|---|---|
-| 小咪（主 bot） | 更华丽的多层蕾丝/金边维多利亚 | **要** 精致小金皇冠 | 颈链可更正式（珍珠+皇冠吊坠） |
+| 小咪（主 bot） | 更华丽的多层蕾丝/金边维多利亚 | **要** 醒目大金皇冠（长在蕾丝上，可很大） | 颈链可更正式（珍珠+皇冠吊坠） |
 | 小咪2 / 3 / 4… | 普通女仆头饰，互不雷同 | **不要** | 仍要 ≥2 主题配饰；可走「分身姐妹」各自小主题 |
 
 ---
@@ -192,7 +193,7 @@ Appearance: soft bob with blunt bangs and tiny cat-ear tufts, one longer left st
 | # | 助手名 | 档位 | 发型 | 染法 | 三色 | 头饰（外形/材质/色/对比） | 徽章 | 主题发卡 | 脸颊标记 | 颈链 |
 |---|---|---|---|---|---|---|---|---|---|---|
 | 01 | （例）投票 | 正常 | 齐刘海长直 | 发尾渐变 | 热珊瑚/奶油/柠檬金 | 宽层叠白蕾丝/厚蕾丝/米白描金 | 选票糖 | 小选票夹 | 金泪滴贴 | 金边白蕾丝+金环 |
-| 02 | （例）财务 | 正常 | 侧辫软刘海 | 发尾 | 薄荷珍珠/奶油/金 | 圆层奶油蕾丝/厚蕾丝/描金 | 小钱袋 | 算盘珠 | 薄荷创可贴+小币 | 珍珠+金币 |
+| 02 | （例）财务 | 正常 | 侧辫软刘海 | 发尾 | 薄荷珍珠/奶油/金 | 圆层奶油蕾丝/厚蕾丝/描金 | 小钱袋 | 算盘珠 | 金币爱心贴 | 珍珠+金币 |
 | 03 | （例）小咪女仆长 | 亮 | 猫耳软bob | 内层染 | 泡泡糖粉/柠檬金/珊瑚 | 多层维多利亚+玫瑰粉内带+金滚边+**小皇冠** | 猫爪+冠 | 小金冠吊 | 金星贴 | 双排珍珠+冠坠 |
 | 04 | … | … | … | … | … | … | … | … | … | … |
 
@@ -208,9 +209,10 @@ Appearance: soft bob with blunt bangs and tiny cat-ear tufts, one longer left st
 | 头饰长一个样 | 分配表重写外形/材质/色；缩略图复查 |
 | 头发太浅或发黑糊进背景 | 换档位用词；深档加亮挑染 |
 | **深色头饰糊进 #1A1A1C** | 加亮滚边 / 换浅主色 / 外白荷叶边；禁止哑光纯黑无边 |
-| **主题配饰不足 2 件** | 补发卡 + 脸颊贴纸/创可贴；必要时加颈链吊坠 |
+| **主题配饰不足 2 件** | 补发卡 + 多样脸颊贴纸；必要时加颈链吊坠；创可贴勿滥用 |
+| **人人创可贴 / 脸颊雷同** | 改成星/心/月牙/闪光/小花/泪滴/迷你蝴蝶结等互不重复；创可贴整套 ≤1～2 |
 | 配饰和职责无关 | 重读 bot 上下文，换主题道具 |
-| 脸上出现生硬工作图标 | 改成可爱贴纸或创可贴涂鸦；硬符号只留徽章/发卡的糖化版 |
+| 脸上出现生硬工作图标 | 改成多样可爱贴纸；硬符号只留徽章/发卡的糖化版；创可贴极少 |
 | 分身戴了皇冠 / 女仆长看不出 | 分身去冠；小咪加强小皇冠与华贵头饰 |
 | 母版的对勾跑到别的号 | 英文写清不要抄母版配件 |
 | 总览眼睛不齐、头大小不一 | 不准交付 |
@@ -220,8 +222,8 @@ Appearance: soft bob with blunt bangs and tiny cat-ear tufts, one longer left st
 ## 10. 分享时请保留
 
 - 只需分享本文件（或本仓库）。  
-- **不要删：**同一模子、双参考、缩放上限、背景色、禁黑发与水洗浅色、头饰要能分清、**深色头饰对比锁**、**先读上下文再设计 ≥2 主题配饰**、可爱贴纸/创可贴、女仆长小皇冠规则、先展示再问是否更换。
+- **不要删：**同一模子、双参考、缩放上限、背景色、禁黑发与水洗浅色、头饰要能分清、**深色头饰对比锁**、**先读上下文再设计 ≥2 主题配饰**、**多样脸颊贴纸（创可贴极少）**、女仆长醒目皇冠规则、首次先展示总览（主人授权后可直接换）。
 
 ---
 
-*v17 · 发色更大胆（≥⅓ 深宝石+亮挑染）；在 v16 深色头饰对比锁与验收标准上：恢复并强调审美脸贴；允许可爱创可贴/脸颊印；硬性要求每个 bot ≥2 个与职责相关的主题配饰；出图前必须先读该 bot 上下文；明确主 bot 小咪=女仆长+小皇冠，分身无冠。*
+*v18 · 首次先总览，主人授权后直接换不再逐个确认； 发色更大胆（≥⅓ 深宝石+亮挑染）；多样脸颊贴纸为主、创可贴整套最多约 1～2；硬性 ≥2 主题配饰；出图前读上下文；主 bot 小咪=女仆长+醒目蕾丝一体皇冠（可很大），分身无冠。*
